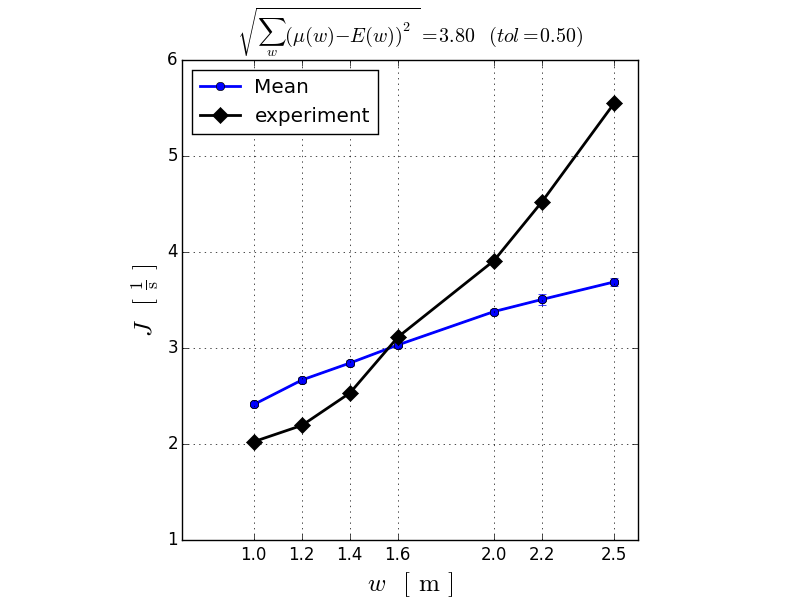
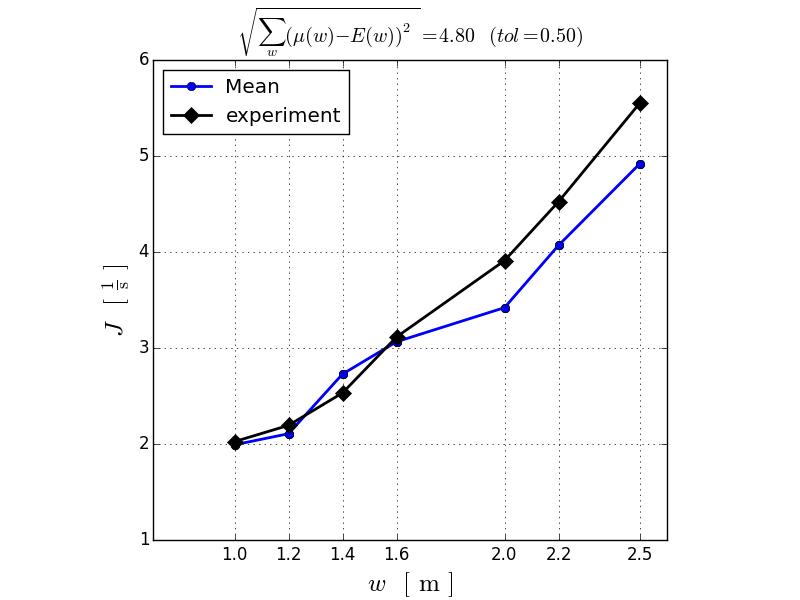
Use new calculated ei

diff --git a/math/VelocityModel.cpp b/math/VelocityModel.cpp
@@ -179,13 +179,19 @@ void VelocityModel::ComputeNextTimeStep(double current, double deltaT, Building*
                                repPed += ForceRepPed(ped, ped1);
                           }
                      }
-                     // calculate spacing
-                     // my_pair spacing_winkel = GetSpacing(ped, ped1);
-                     spacings.push_back(GetSpacing(ped, ped1));
-                }
-                
+                } // for i
                 //repulsive forces to walls and closed transitions that are not my target
                 Point repWall = ForceRepRoom(allPeds[p], subroom);
+
+                // calculate new direction ei according to (6)
+                Point direction = e0(ped, room) + repPed + repWall;
+                
+                for (int i = 0; i < size; i++) {
+                      Pedestrian* ped1 = neighbours[i];
+                     // calculate spacing
+                     // my_pair spacing_winkel = GetSpacing(ped, ped1);
+                     spacings.push_back(GetSpacing(ped, ped1, direction));                      
+                }
                 // todo: update direction every DT.
                 
                 // if(ped->GetID()==-10)
@@ -197,8 +203,6 @@ void VelocityModel::ComputeNextTimeStep(double current, double deltaT, Building*
                 double winkel = spacings[0].second;
                 Point tmp;
 
-                Point direction;
-                direction = e0(ped, room) + repPed + repWall;
 
                 // if(fmod(ped->GetGlobalTime(), ped->GetUpdateRate())<0.0001 || (spacing-ped->GetLastE0().GetX())>0.01)
                 // {
@@ -307,7 +311,7 @@ double VelocityModel::OptimalSpeed(Pedestrian* ped, double spacing, double winke
       return speed;
 }
 
-my_pair VelocityModel::GetSpacing(Pedestrian* ped1, Pedestrian* ped2) const
+my_pair VelocityModel::GetSpacing(Pedestrian* ped1, Pedestrian* ped2, Point ei) const
 {
       Point distp12 = ped2->GetPos() - ped1->GetPos(); // inversed sign 
       double Distance = distp12.Norm();
@@ -321,10 +325,10 @@ my_pair VelocityModel::GetSpacing(Pedestrian* ped1, Pedestrian* ped2) const
             Log->Write("\t\t Pedestrians are too near to each other.");
             exit(EXIT_FAILURE);
      }
-      Point ei = ped1->GetV().Normalized();
-      if(ped1->GetV().NormSquare()<0.01){
-            ei = ped1->GetV0().Normalized();
-      }
+      // Point ei = ped1->GetV().Normalized();
+      // if(ped1->GetV().NormSquare()<0.01){
+      //       ei = ped1->GetV0().Normalized();
+      // }
       double condition1 = ei.ScalarProduct(ep12); // < e_i , e_ij > should be positive
       double condition2 = ei.Rotate(0, 1).ScalarProduct(ep12); // theta = pi/2. condition2 should <= than l/Distance
       condition2 = (condition2>0)?condition2:-condition2; // abs

diff --git a/general/ArgumentParser.cpp b/general/ArgumentParser.cpp
@@ -1047,8 +1047,8 @@ bool ArgumentParser::ParseStrategyNodeToObject(const TiXmlNode &strategyNode)
                     break;
                default:
                     p_exit_strategy = std::shared_ptr<DirectionStrategy>(new DirectionMinSeperationShorterLine());
-                    Log->Write("ERROR:\t unknown exit_crossing_strategy < %d >", pExitStrategy);
-                    Log->Write("     :\t the default < %d > will be used", 2);
+                    Log->Write("ERROR:\t unknown exit_crossing_strategy <%d>", pExitStrategy);
+                    Log->Write("     :\t the default <%d> will be used", 2);
                     return true;
                     break;
                }

diff --git a/Utest/test_13/runtest_13.py b/Utest/test_13/runtest_13.py
@@ -142,7 +142,12 @@ if __name__ == "__main__":
     errorbar(F , np.array(M)[indexsort] , yerr=np.array(S)[indexsort], fmt='-o')
 
     plot(lid_w , lid_f, "D-k", lw=2, ms = ms, label = "experiment")
-    axes().set_aspect(1./axes().get_data_ratio())  
+    axes().set_aspect(1./axes().get_data_ratio())
+    columns = np.vstack((F, np.array(M)[indexsort]))
+    gg = open("flow_col.txt", "w")
+    for i in range(len(F)):
+        print >>gg, columns[0][i], columns[1][i]
+    gg.close()
     legend(loc='best', numpoints=1)
     grid()
     xlabel(r'$w\; [\, \rm{m}\, ]$',fontsize=18)

diff --git a/math/VelocityModel.h b/math/VelocityModel.h
@@ -80,7 +80,7 @@ private:
 
      Point e0(Pedestrian *ped, Room* room) const;
 
-     my_pair GetSpacing(Pedestrian* ped1, Pedestrian* ped2) const;
+     my_pair GetSpacing(Pedestrian* ped1, Pedestrian* ped2, Point ei) const;
            
      /**
       * Repulsive force between two pedestrians ped1 and ped2 according to
